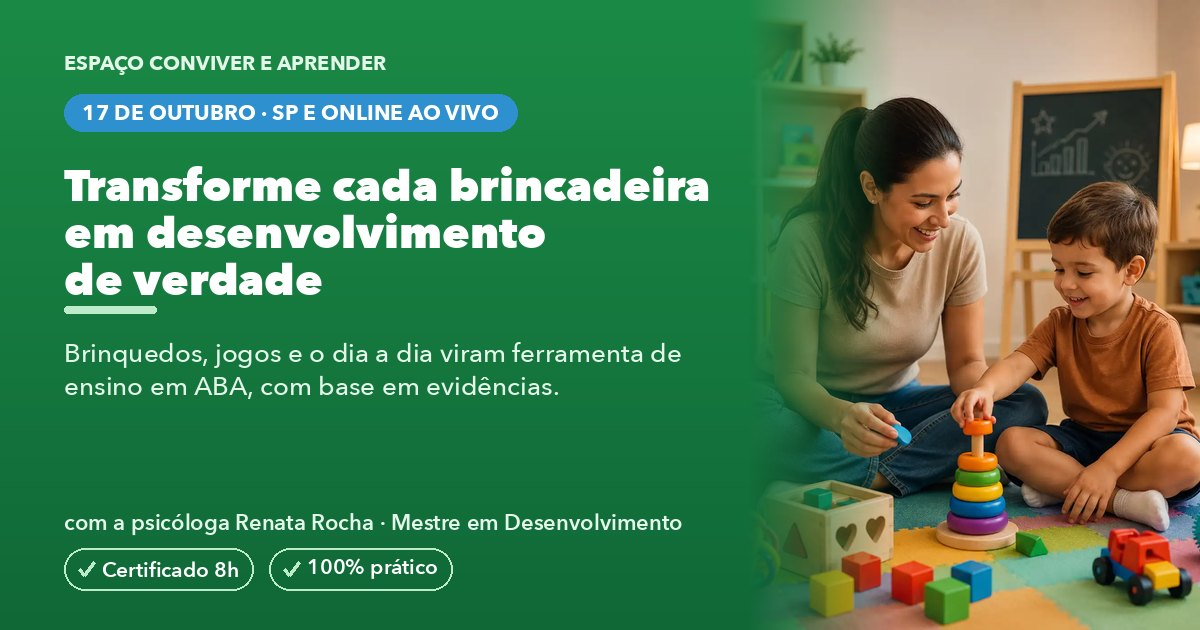
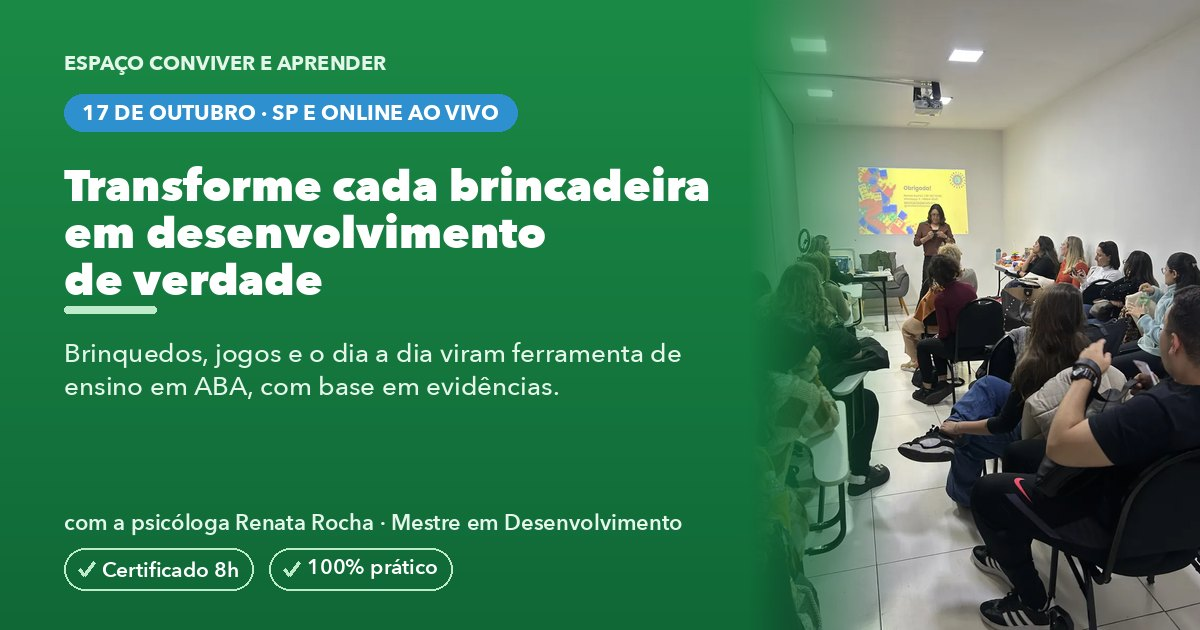
feat: card OG do Brincar com foto real (dela dando aula) + cache-bust

diff --git a/index.html b/index.html
@@ -23,8 +23,8 @@
 <meta property="og:url" content="https://brincar.convivereaprender.com.br/">
 <meta property="og:title" content="Curso ABA em Ação: Aprender Brincando · 17/10/2026">
 <meta property="og:description" content="Transforme cada brincadeira em desenvolvimento de verdade. Brinquedos e jogos como ferramenta de ensino em ABA, com base em evidências. Certificado de 8h. Presencial em SP ou online ao vivo.">
-<meta property="og:image" content="https://brincar.convivereaprender.com.br/assets/og-share.jpg">
-<meta property="og:image:secure_url" content="https://brincar.convivereaprender.com.br/assets/og-share.jpg">
+<meta property="og:image" content="https://brincar.convivereaprender.com.br/assets/og-share.jpg?v=2">
+<meta property="og:image:secure_url" content="https://brincar.convivereaprender.com.br/assets/og-share.jpg?v=2">
 <meta property="og:image:type" content="image/jpeg">
 <meta property="og:image:width" content="1200">
 <meta property="og:image:height" content="630">
@@ -34,7 +34,7 @@
 <meta name="twitter:card" content="summary_large_image">
 <meta name="twitter:title" content="Curso ABA em Ação: Aprender Brincando · 17/10/2026">
 <meta name="twitter:description" content="Brinquedos e jogos como ferramenta de ensino em ABA. Certificado 8h. Presencial em SP ou online ao vivo.">
-<meta name="twitter:image" content="https://brincar.convivereaprender.com.br/assets/og-share.jpg">
+<meta name="twitter:image" content="https://brincar.convivereaprender.com.br/assets/og-share.jpg?v=2">
 
 <!-- ============== META PIXEL (no head, antes de tudo, fora do GTM) ============== -->
 <script>
